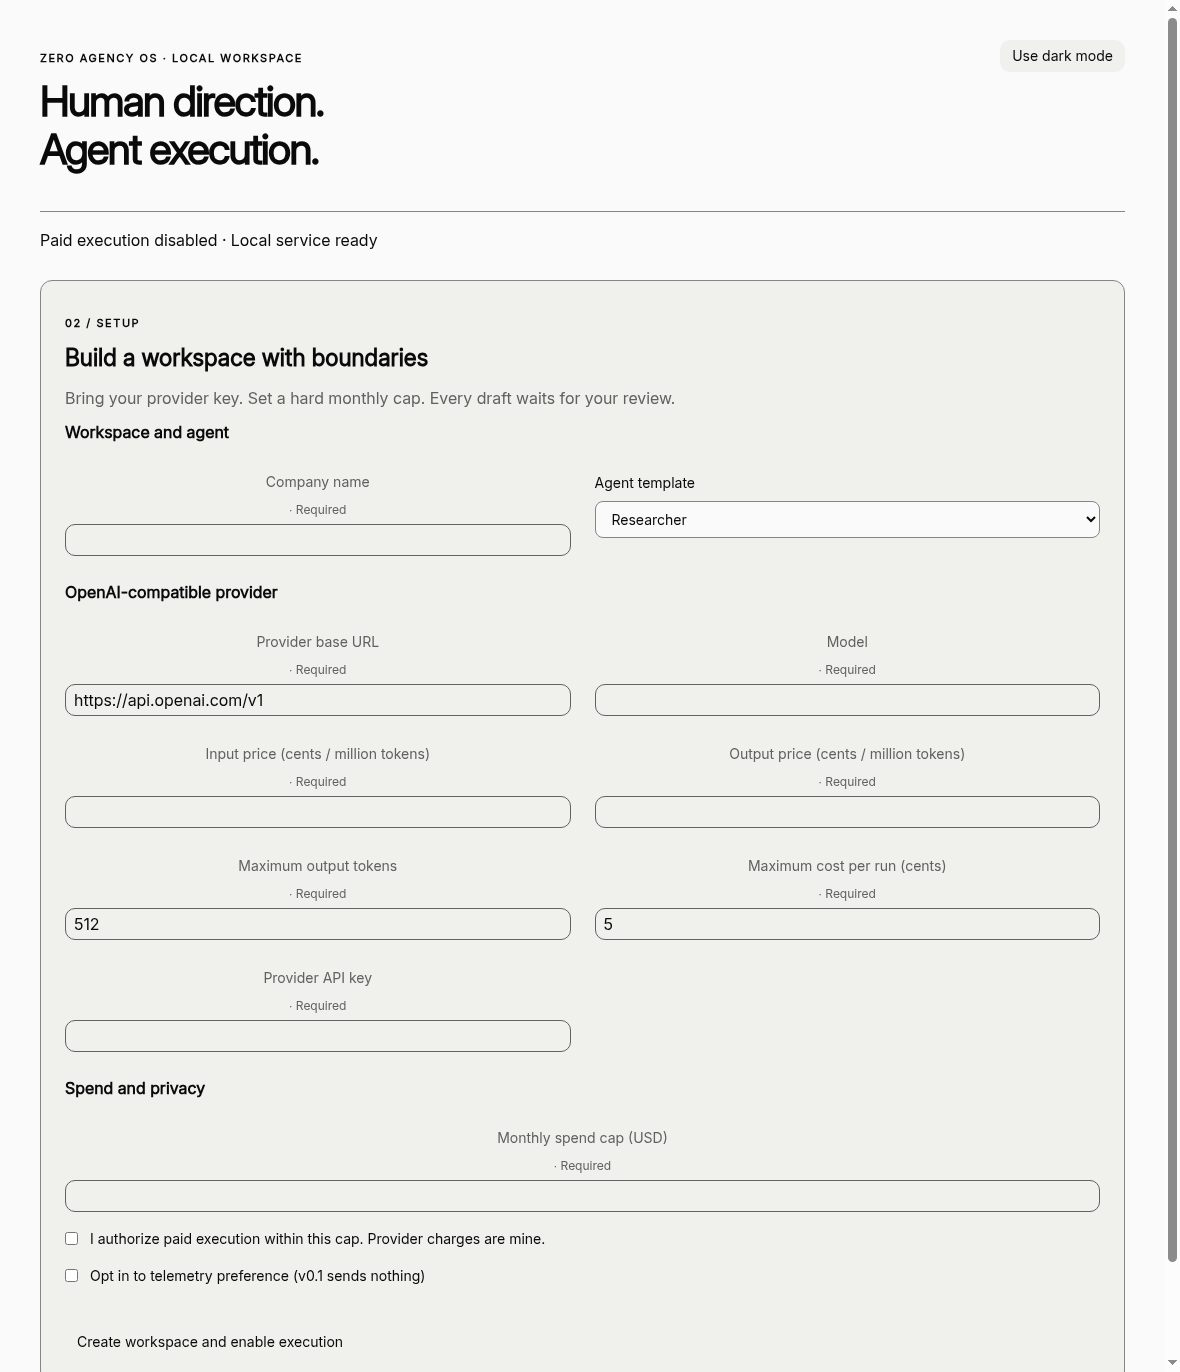
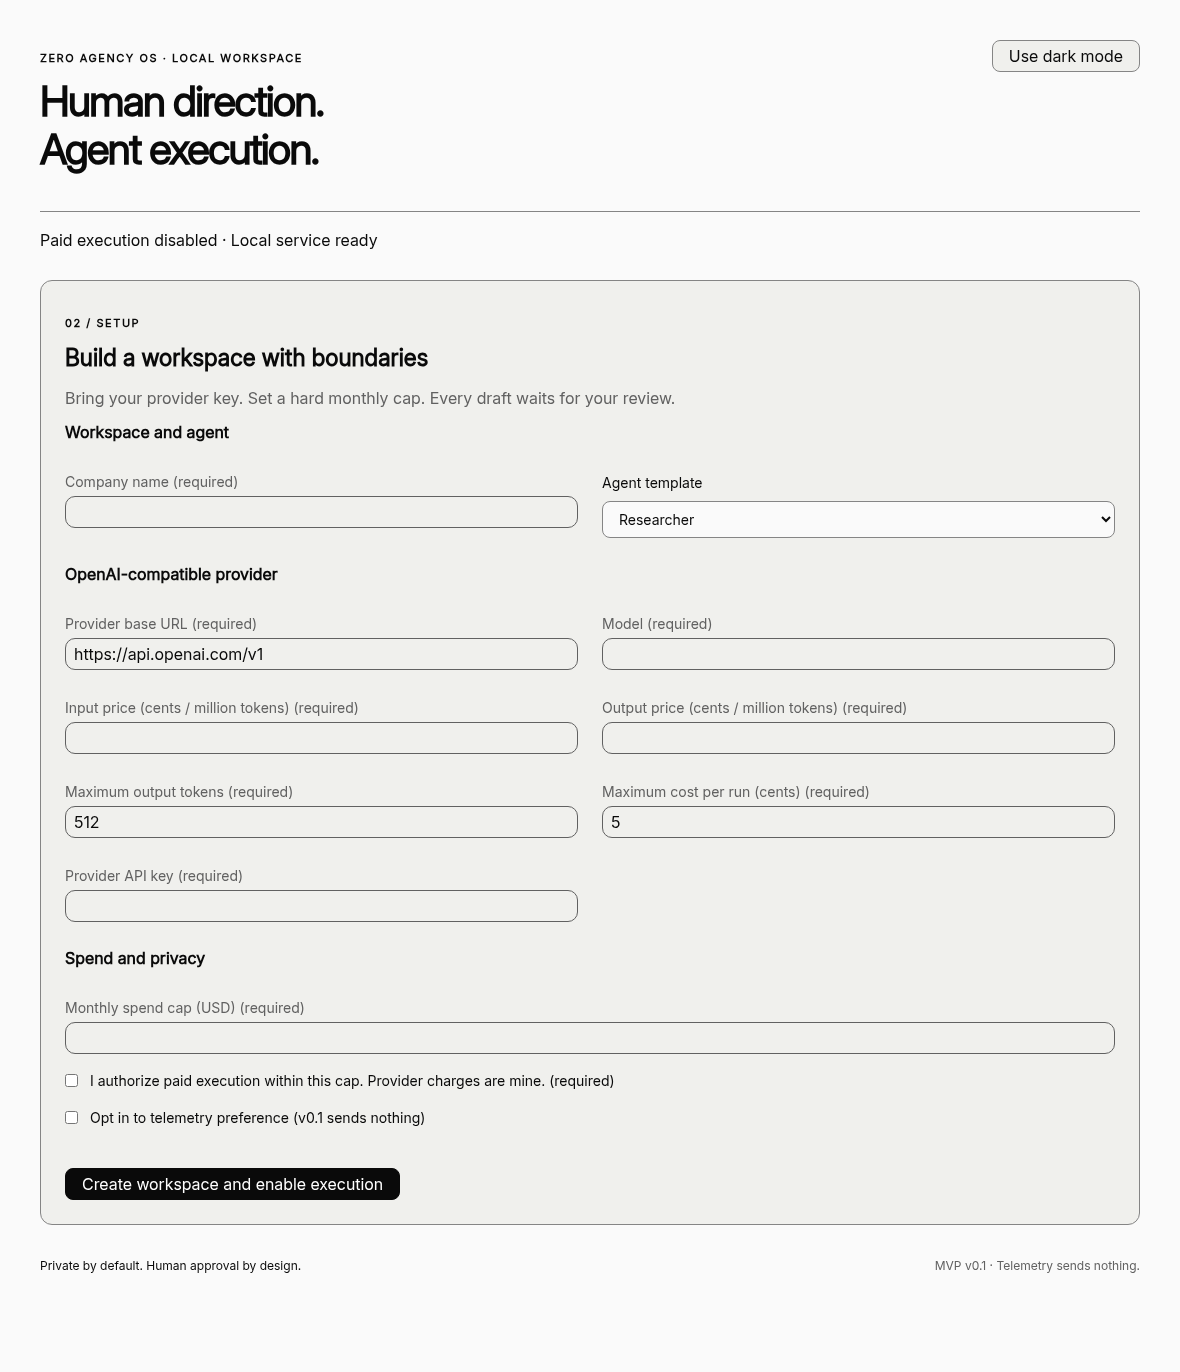
feat: UI polish (primary/secondary controls, labels), company budget synced to cap; refreshed evidence

diff --git a/src/renderer/main.tsx b/src/renderer/main.tsx
@@ -75,37 +75,37 @@ function App() {
     }
     const operational = status.state === 'ready';
     return <div className="zero-agency-os"><Theme theme={neutralTheme} mode={mode}><main className="za-screen">
-        <header><div><p className="eyebrow">ZERO AGENCY OS · LOCAL WORKSPACE</p><h1>Human direction.<br/>Agent execution.</h1></div><Button data-mode-toggle label={mode === 'light' ? 'Use dark mode' : 'Use light mode'} variant="secondary" onClick={() => { setManual(true); setMode(mode === 'light' ? 'dark' : 'light'); }} /></header>
+        <header><div><p className="eyebrow">ZERO AGENCY OS · LOCAL WORKSPACE</p><h1>Human direction.<br/>Agent execution.</h1></div><Button className="za-control" data-mode-toggle label={mode === 'light' ? 'Use dark mode' : 'Use light mode'} variant="secondary" onClick={() => { setManual(true); setMode(mode === 'light' ? 'dark' : 'light'); }} /></header>
         <div className="status-line" role="status" aria-live="polite">{operational ? `${status.paidExecution ? 'Paid execution enabled' : 'Paid execution disabled'} · ${busy ? message : 'Local service ready'}` : `Local service: ${status.state}`}</div>
-        {error && <p className="notice" role="alert">{error}</p>}
-        {!operational ? <Card className="za-card"><p className="eyebrow">01 / STARTUP</p><h2>Preparing your local workspace</h2><p>Starting Paperclip, signing in the operator, and checking spend policies before execution becomes available.</p><p role="status" aria-live="polite">{status.lastError ?? 'Your data stays on this device. First startup can take a few minutes.'}</p>{status.state !== 'starting' && <Button label="Retry startup" isDisabled={busy} onClick={() => void action('Retrying startup…', () => window.zaos.retryStartup())} />}{status.logTail && <details><summary>Local service log tail</summary><pre>{status.logTail}</pre></details>}</Card>
+        {error && <p id="action-error" className="notice" role="alert">{error}</p>}
+        {!operational ? <Card className="za-card"><p className="eyebrow">01 / STARTUP</p><h2>Preparing your local workspace</h2><p>Starting Paperclip, signing in the operator, and checking spend policies before execution becomes available.</p><p role="status" aria-live="polite">{status.lastError ?? 'Your data stays on this device. First startup can take a few minutes.'}</p>{status.state !== 'starting' && <Button className="za-control za-primary" label="Retry startup" isDisabled={busy} onClick={() => void action('Retrying startup…', () => window.zaos.retryStartup())} />}{status.logTail && <details><summary>Local service log tail</summary><pre>{status.logTail}</pre></details>}</Card>
         : !status.configured ? <Card className="za-card"><p className="eyebrow">02 / SETUP</p><h2>Build a workspace with boundaries</h2><p className="za-muted">Bring your provider key. Set a hard monthly cap. Every draft waits for your review.</p>
             <form onSubmit={e => { e.preventDefault(); void action('Configuring your workspace…', async () => { await setup(); setProgress(4); }); }}>
                 <fieldset disabled={busy}><legend>Workspace and agent</legend><div className="grid">
-                    <TextInput label="Company name" value={company} onChange={setCompany} isRequired isDisabled={progress >= 1} />
+                    <TextInput aria-describedby={error ? 'action-error' : undefined} label="Company name (required)" value={company} onChange={setCompany} isRequired isDisabled={progress >= 1} />
                     <label>Agent template<select value={template} onChange={e => setTemplate(e.target.value)} disabled={progress >= 3}><option value="researcher">Researcher</option><option value="chief-of-staff">Chief of Staff</option><option value="marketing-writer">Marketing Writer</option></select></label>
                 </div></fieldset>
                 <fieldset disabled={busy || progress >= 3}><legend>OpenAI-compatible provider</legend><div className="grid">
-                    <TextInput label="Provider base URL" type="url" value={baseUrl} onChange={setBaseUrl} isRequired />
-                    <TextInput label="Model" value={model} onChange={setModel} isRequired />
-                    <TextInput label="Input price (cents / million tokens)" value={inputPrice} onChange={setInputPrice} inputMode="decimal" isRequired />
-                    <TextInput label="Output price (cents / million tokens)" value={outputPrice} onChange={setOutputPrice} inputMode="decimal" isRequired />
-                    <TextInput label="Maximum output tokens" value={maxTokens} onChange={setMaxTokens} inputMode="numeric" isRequired />
-                    <TextInput label="Maximum cost per run (cents)" value={maxRun} onChange={setMaxRun} inputMode="decimal" isRequired />
-                    <TextInput label={progress >= 2 ? 'API key saved securely' : 'Provider API key'} type="password" value={key} onChange={setKey} isRequired={progress < 2} isDisabled={progress >= 2} />
+                    <TextInput aria-describedby={error ? 'action-error' : undefined} label="Provider base URL (required)" type="url" value={baseUrl} onChange={setBaseUrl} isRequired />
+                    <TextInput aria-describedby={error ? 'action-error' : undefined} label="Model (required)" value={model} onChange={setModel} isRequired />
+                    <TextInput aria-describedby={error ? 'action-error' : undefined} label="Input price (cents / million tokens) (required)" value={inputPrice} onChange={setInputPrice} inputMode="decimal" isRequired />
+                    <TextInput aria-describedby={error ? 'action-error' : undefined} label="Output price (cents / million tokens) (required)" value={outputPrice} onChange={setOutputPrice} inputMode="decimal" isRequired />
+                    <TextInput aria-describedby={error ? 'action-error' : undefined} label="Maximum output tokens (required)" value={maxTokens} onChange={setMaxTokens} inputMode="numeric" isRequired />
+                    <TextInput aria-describedby={error ? 'action-error' : undefined} label="Maximum cost per run (cents) (required)" value={maxRun} onChange={setMaxRun} inputMode="decimal" isRequired />
+                    <TextInput aria-describedby={error ? 'action-error' : undefined} label={progress >= 2 ? 'API key saved securely' : 'Provider API key (required)'} type="password" value={key} onChange={setKey} isRequired={progress < 2} isDisabled={progress >= 2} />
                 </div></fieldset>
-                <fieldset disabled={busy}><legend>Spend and privacy</legend><TextInput label="Monthly spend cap (USD)" value={cap} onChange={setCap} inputMode="decimal" isRequired />
-                    <label className="check"><input type="checkbox" checked={consent} onChange={e => setConsent(e.target.checked)} required/>I authorize paid execution within this cap. Provider charges are mine.</label>
+                <fieldset disabled={busy}><legend>Spend and privacy</legend><TextInput aria-describedby={error ? 'action-error' : undefined} label="Monthly spend cap (USD) (required)" value={cap} onChange={setCap} inputMode="decimal" isRequired />
+                    <label className="check"><input type="checkbox" aria-describedby={error ? 'action-error' : undefined} checked={consent} onChange={e => setConsent(e.target.checked)} required/>I authorize paid execution within this cap. Provider charges are mine. (required)</label>
                     <label className="check"><input type="checkbox" checked={telemetry} onChange={e => setTelemetry(e.target.checked)}/>Opt in to telemetry preference (v0.1 sends nothing)</label>
-                </fieldset><Button type="submit" label="Create workspace and enable execution" isDisabled={busy} />
+                </fieldset><Button className="za-control za-primary" type="submit" label="Create workspace and enable execution" isDisabled={busy} />
             </form></Card>
         : <div className="workspace"><Card className="za-card"><p className="eyebrow">03 / WORKSPACE</p><h2>Give your agent a task</h2><p className="za-muted">Drafts stay in review until you accept them.</p>
             <form onSubmit={e => { e.preventDefault(); void action('Agent is working. Waiting for usage reconciliation…', async () => setResult(await window.zaos.runTask(title, description))); }}>
-                <fieldset disabled={busy}><TextInput label="Task title" value={title} onChange={setTitle} isRequired/><label>Task description<textarea value={description} onChange={e => setDescription(e.target.value)} required rows={4}/></label></fieldset>
-                <Button type="submit" label={busy ? 'Working…' : 'Run task'} isDisabled={busy || !status.paidExecution}/>
+                <fieldset disabled={busy}><TextInput aria-describedby={error ? 'action-error' : undefined} label="Task title (required)" value={title} onChange={setTitle} isRequired/><label>Task description (required)<textarea aria-describedby={error ? 'action-error' : undefined} value={description} onChange={e => setDescription(e.target.value)} required rows={4}/></label></fieldset>
+                <Button className="za-control za-primary" type="submit" label={busy ? 'Working…' : 'Run task'} isDisabled={busy || !status.paidExecution}/>
             </form>
-            {result && <section aria-labelledby="result-heading"><h3 id="result-heading">{result.status === 'accepted' ? 'Review accepted' : result.status === 'succeeded' ? 'Ready for human review' : 'Execution stopped'}</h3><pre className="result">{result.result || 'No result was returned. Open the board to inspect the run.'}</pre><p>Run cost: {money(result.costCents)}</p><p>Spent: {money(result.spent)} / {money(result.cap)} monthly cap</p>{result.status === 'succeeded' && result.issueId && <Button label="Accept review" isDisabled={busy} onClick={() => void action('Accepting review…', () => window.zaos.acceptReview(result.issueId!))}/>}</section>}
-        </Card><aside><Card className="za-card"><h2>Execution controls</h2><p>Monthly cap: {money(status.cap ?? 0)}</p><p>Unpriced usage blocks future execution. Disabling execution pauses the agent.</p><div className="actions"><Button label="Open Paperclip board" variant="secondary" onClick={() => void action('Opening board…', () => window.zaos.openBoard())}/><Button label="Disable paid execution" variant="secondary" isDisabled={busy || !status.paidExecution} onClick={() => void action('Pausing agent…', () => window.zaos.setPaidExecution(false, false))}/>{!status.paidExecution && <><label className="check"><input type="checkbox" checked={consent} onChange={e => setConsent(e.target.checked)}/>I authorize paid execution within the saved cap.</label><Button label="Enable paid execution" isDisabled={busy || !consent} onClick={() => void action('Checking spend policy…', () => window.zaos.setPaidExecution(true, consent))}/></>}</div></Card></aside></div>}
+            {result && <section aria-labelledby="result-heading"><h3 id="result-heading">{result.status === 'accepted' ? 'Review accepted' : result.status === 'succeeded' ? 'Ready for human review' : 'Execution stopped'}</h3><pre className="result">{result.result || 'No result was returned. Open the board to inspect the run.'}</pre><p>Run cost: {money(result.costCents)}</p><p>Spent: {money(result.spent)} / {money(result.cap)} monthly cap</p>{result.status === 'succeeded' && result.issueId && <Button className="za-control za-primary" label="Accept review" isDisabled={busy} onClick={() => void action('Accepting review…', () => window.zaos.acceptReview(result.issueId!))}/>}</section>}
+        </Card><aside><Card className="za-card"><h2>Execution controls</h2><p>Monthly cap: {money(status.cap ?? 0)}</p><p>Unpriced usage blocks future execution. Disabling execution pauses the agent.</p><div className="actions"><Button className="za-control" label="Open Paperclip board" variant="secondary" onClick={() => void action('Opening board…', () => window.zaos.openBoard())}/><Button className="za-control" label="Disable paid execution" variant="secondary" isDisabled={busy || !status.paidExecution} onClick={() => void action('Pausing agent…', () => window.zaos.setPaidExecution(false, false))}/>{!status.paidExecution && <><label className="check"><input type="checkbox" aria-describedby={error ? 'action-error' : undefined} checked={consent} onChange={e => setConsent(e.target.checked)}/>I authorize paid execution within the saved cap.</label><Button className="za-control za-primary" label="Enable paid execution" isDisabled={busy || !consent} onClick={() => void action('Checking spend policy…', () => window.zaos.setPaidExecution(true, consent))}/></>}</div></Card></aside></div>}
         <footer>Private by default. Human approval by design. <span className="za-muted">MVP v0.1 · Telemetry sends nothing.</span></footer>
     </main></Theme></div>;
 }

diff --git a/test/services.test.ts b/test/services.test.ts
@@ -61,7 +61,7 @@ it('applies nonzero hard-stop cap and requires consent', async () => {
     const request = vi.fn().mockResolvedValue({});
     const guard = new SpendGuard({ request }, 'c');
     await guard.applyAgentCap('a', 100, 1);
-    expect(request.mock.calls[1][2]).toMatchObject({ amount: 100, hardStopEnabled: true, unpricedUsagePolicy: 'block', reservationCents: 1 });
+    expect(request.mock.calls[2][2]).toMatchObject({ amount: 100, hardStopEnabled: true, unpricedUsagePolicy: 'block', reservationCents: 1 });
     expect(() => assertPaidRequirements(undefined, false, 100, false)).toThrow();
 });
 it('adjusts only same-run unpriced process receipt with acknowledged ZAOS price', async () => {
@@ -114,4 +114,25 @@ it.each([0, 1, undefined])('verifies policy after idempotent reconciliation retr
     const adjustments = request.mock.calls.filter(c => c[0] === 'POST');
     expect(adjustments).toHaveLength(2);
     expect(adjustments.map(c => c[2].idempotencyKey)).toEqual(['zaos:reconcile:r:u', 'zaos:reconcile:r:u']);
+});
+
+it('syncs positive company and agent budgets; disabling never clears either budget', async () => {
+    const request = vi.fn().mockResolvedValue({});
+    const guard = new SpendGuard({ request }, 'c');
+    for (const cap of [1, 100, 100000]) {
+        await guard.applyAgentCap('a', cap, 1);
+        expect(request).toHaveBeenCalledWith('PATCH', '/api/companies/c/budgets', { budgetMonthlyCents: cap });
+        expect(request).toHaveBeenCalledWith('PATCH', '/api/agents/a/budgets', { budgetMonthlyCents: cap });
+    }
+    const beforeDisable = request.mock.calls.length;
+    await guard.disable('a');
+    expect(request.mock.calls.slice(beforeDisable)).toEqual([['POST', '/api/agents/a/pause', {}]]);
+    for (const cap of [0, -1, NaN, undefined]) {
+        const beforeInvalid = request.mock.calls.length;
+        await expect(guard.applyAgentCap('a', cap, 1)).rejects.toThrow();
+        expect(request.mock.calls.length).toBe(beforeInvalid);
+    }
+    const budgets = request.mock.calls.filter(call => call[1].endsWith('/budgets'));
+    expect(budgets).toHaveLength(6);
+    expect(budgets.every(call => call[2].budgetMonthlyCents > 0)).toBe(true);
 });

diff --git a/test/orchestrator.test.ts b/test/orchestrator.test.ts
@@ -30,12 +30,18 @@ it('setup keeps execution off until key, valid cap and explicit consent', async 
     expect(request.mock.calls.find(c => c[1].endsWith('/agents'))?.[2].adapterConfig.env.ZAOS_REVIEWER_USER_ID).toBe('operator-user');
     expect(o.getStatus()).toMatchObject({ paidExecution: false });
     await o.setSpendCap(100);
+    expect(request).toHaveBeenCalledWith('PATCH', '/api/companies/c/budgets', { budgetMonthlyCents: 100 });
     await expect(o.setPaidExecution(true, false)).rejects.toThrow();
     await o.setPaidExecution(true, true);
     expect(o.getStatus()).toMatchObject({ paidExecution: true });
     await o.setPaidExecution(false, false);
     expect(request.mock.calls.at(-1)?.[1]).toBe('/api/agents/a/pause');
     expect(state.cap).toBe(100);
+    const companyBudgets = request.mock.calls.filter(c => c[1] === '/api/companies/c/budgets');
+    expect(companyBudgets).toHaveLength(2); // Setting the cap and enabling execution.
+    expect(companyBudgets.every(c => c[2].budgetMonthlyCents === 100)).toBe(true);
+    await expect(o.setSpendCap(0)).rejects.toThrow();
+    expect(request.mock.calls.filter(c => c[1] === '/api/companies/c/budgets')).toEqual(companyBudgets);
 });
 it('rejects task before consent; telemetry persists without sending', async () => {
     const { o, request, save } = setup();

diff --git a/src/renderer/ui.css b/src/renderer/ui.css
@@ -16,3 +16,8 @@ textarea { resize: vertical; margin-bottom: 8px; } form label { margin-top: 12px
 pre { white-space: pre-wrap; overflow-wrap: anywhere; max-height: 320px; overflow: auto; font: inherit; }.result { border-top: 1px solid var(--color-border); padding-top: 16px; }.notice { border: 1px solid var(--color-border); padding: 16px; border-radius: 8px; }
 footer { padding: 32px 0 0; font-size: 12px; display: flex; justify-content: space-between; gap: 16px; }
 @media(max-width: 760px) { .grid, .workspace { grid-template-columns: 1fr; } header, footer { flex-direction: column; } .za-screen { padding: 24px; } }
+
+/* Astryx labels use inline content plus a separate required indicator. Keep the
+   accessible required state; the visible suffix is part of our label text. */
+.zero-agency-os form .astryx-field-label[for] { flex-direction: row; justify-content: flex-start; text-align: left; }
+.zero-agency-os form .astryx-field-label[for] > span { display: none; }

diff --git a/src/main/spend-guard.ts b/src/main/spend-guard.ts
@@ -67,6 +67,7 @@ export class SpendGuard {
         const amount = parseCap(cap);
         if (!Number.isFinite(reservationCents) || reservationCents <= 0 || reservationCents > amount)
             throw new Error('Reservation must be positive and within cap');
+        await this.api.request('PATCH', `/api/companies/${this.companyId}/budgets`, { budgetMonthlyCents: amount });
         await this.api.request('PATCH', `/api/agents/${agentId}/budgets`, { budgetMonthlyCents: amount });
         await this.api.request('POST', `/api/companies/${this.companyId}/budgets/policies`, { scopeType: 'agent', scopeId: agentId, amount, reservationCents, hardStopEnabled: true, unpricedUsagePolicy: 'block', warnPercent: 80, isActive: true });
     }
